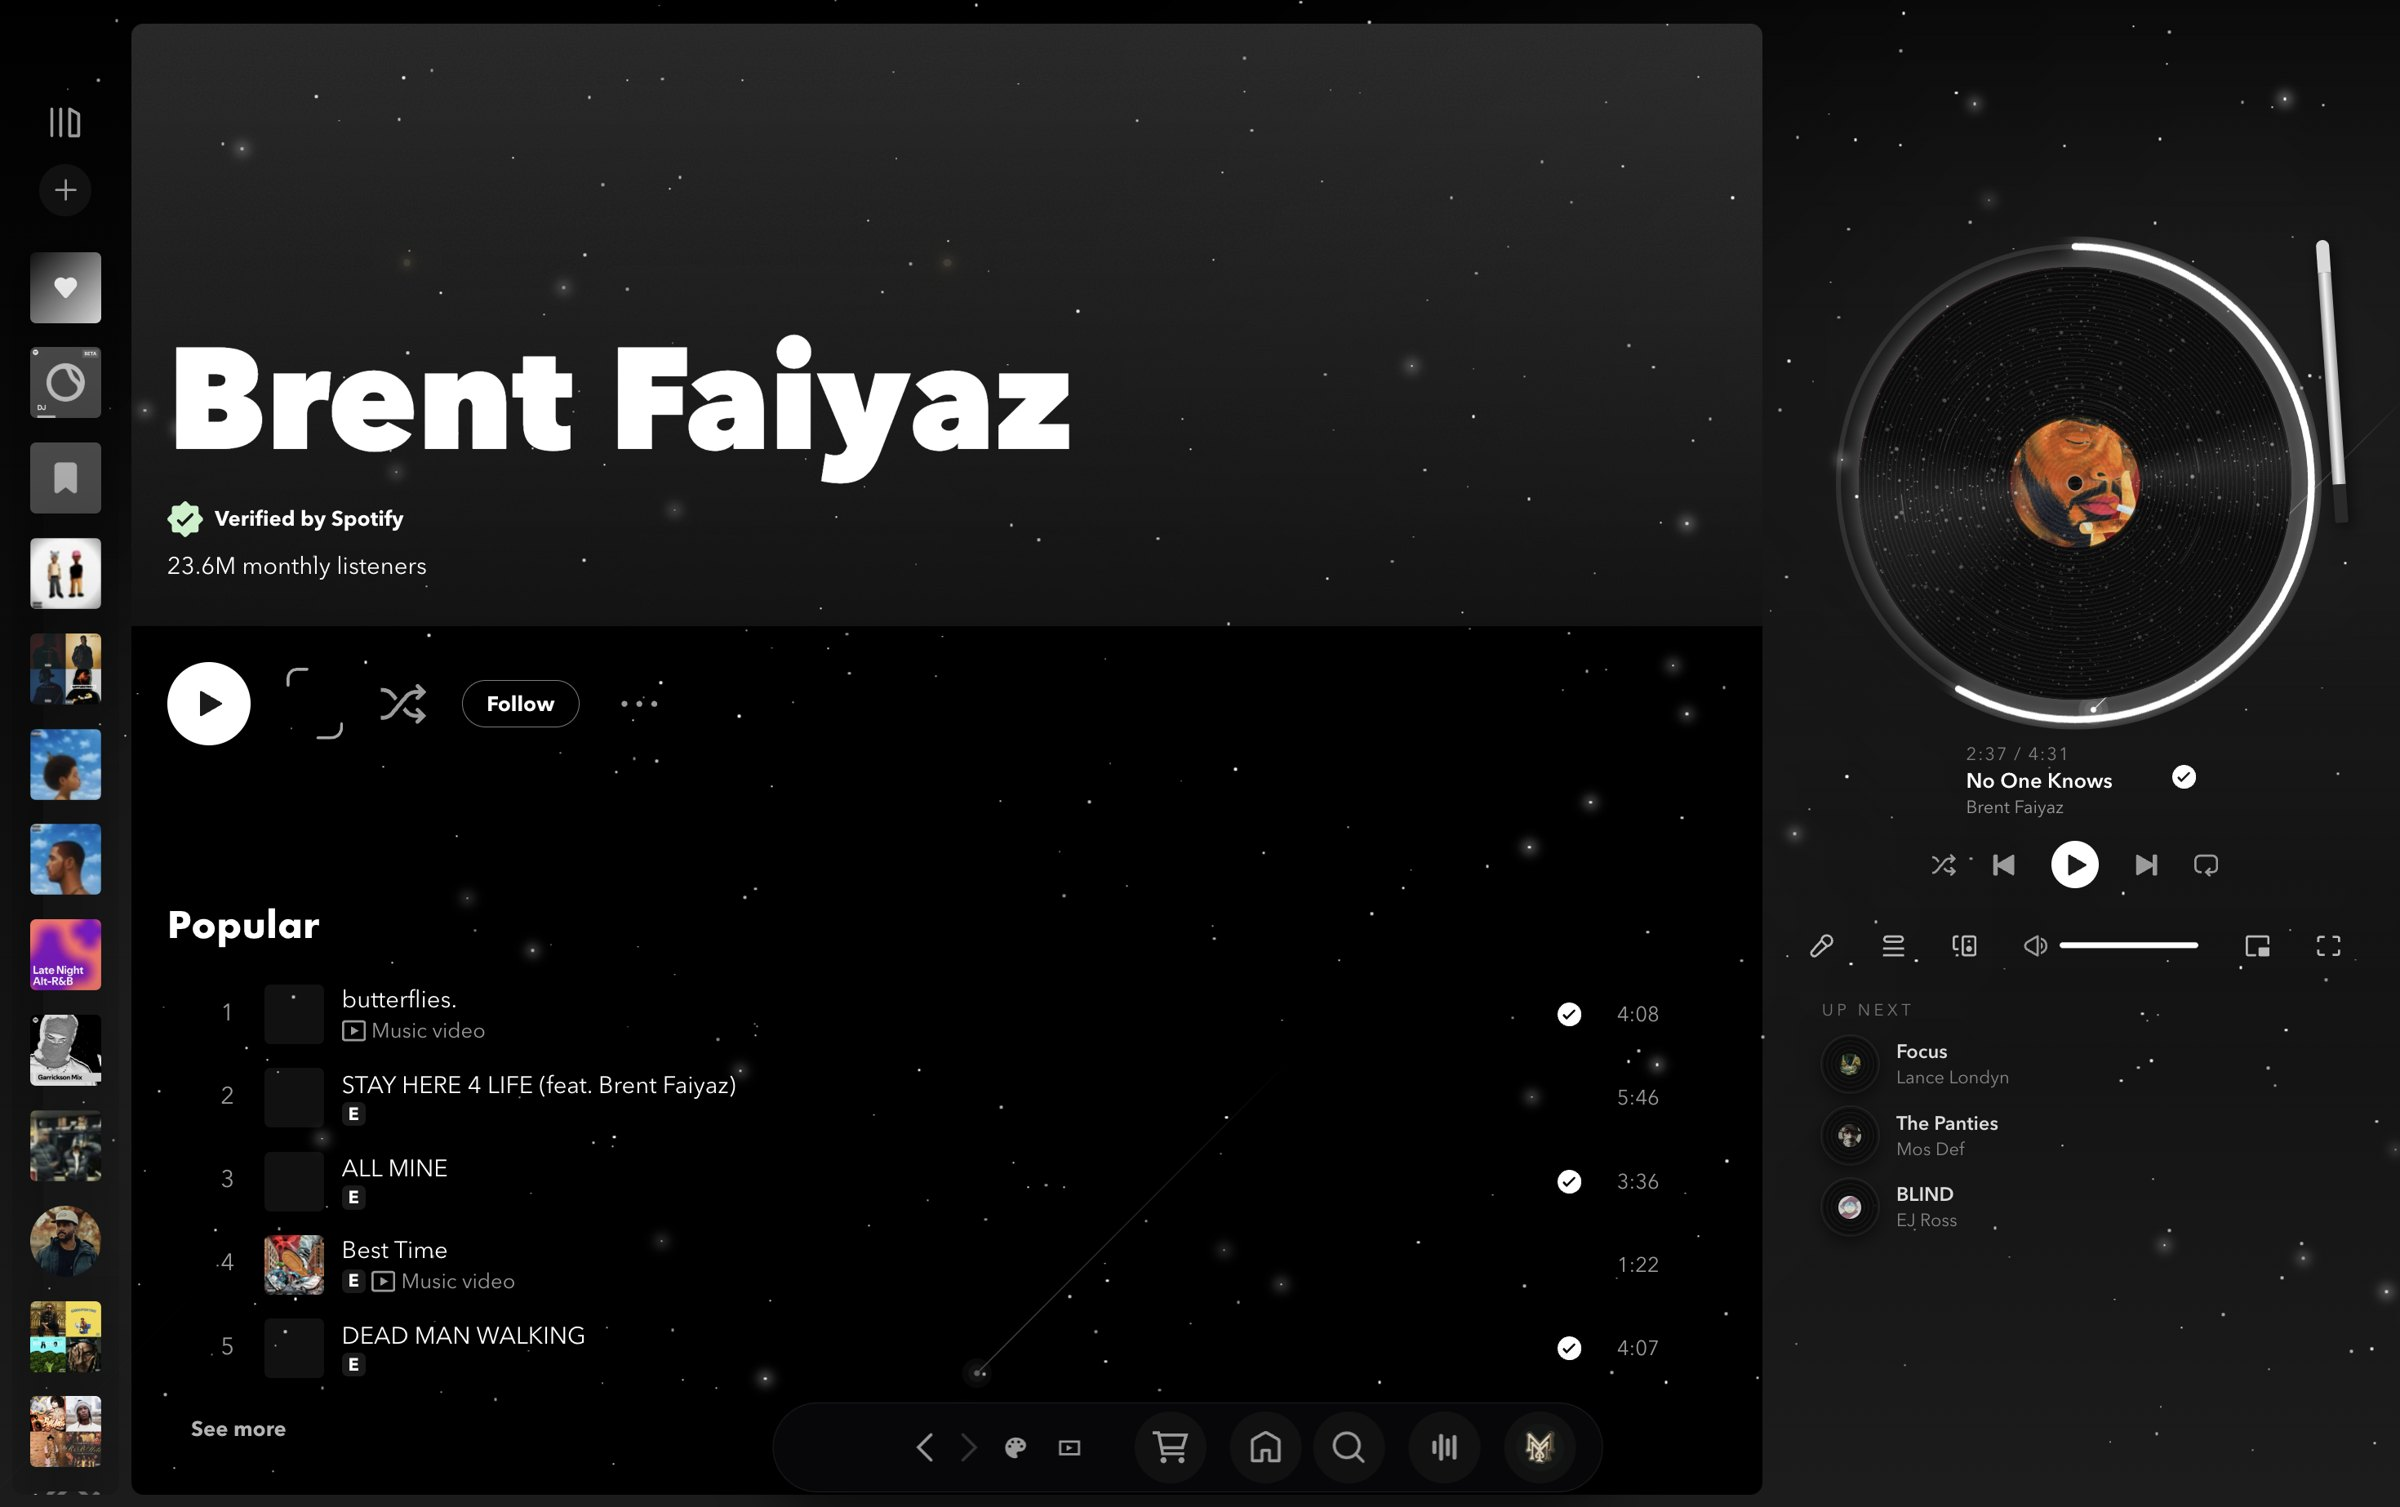
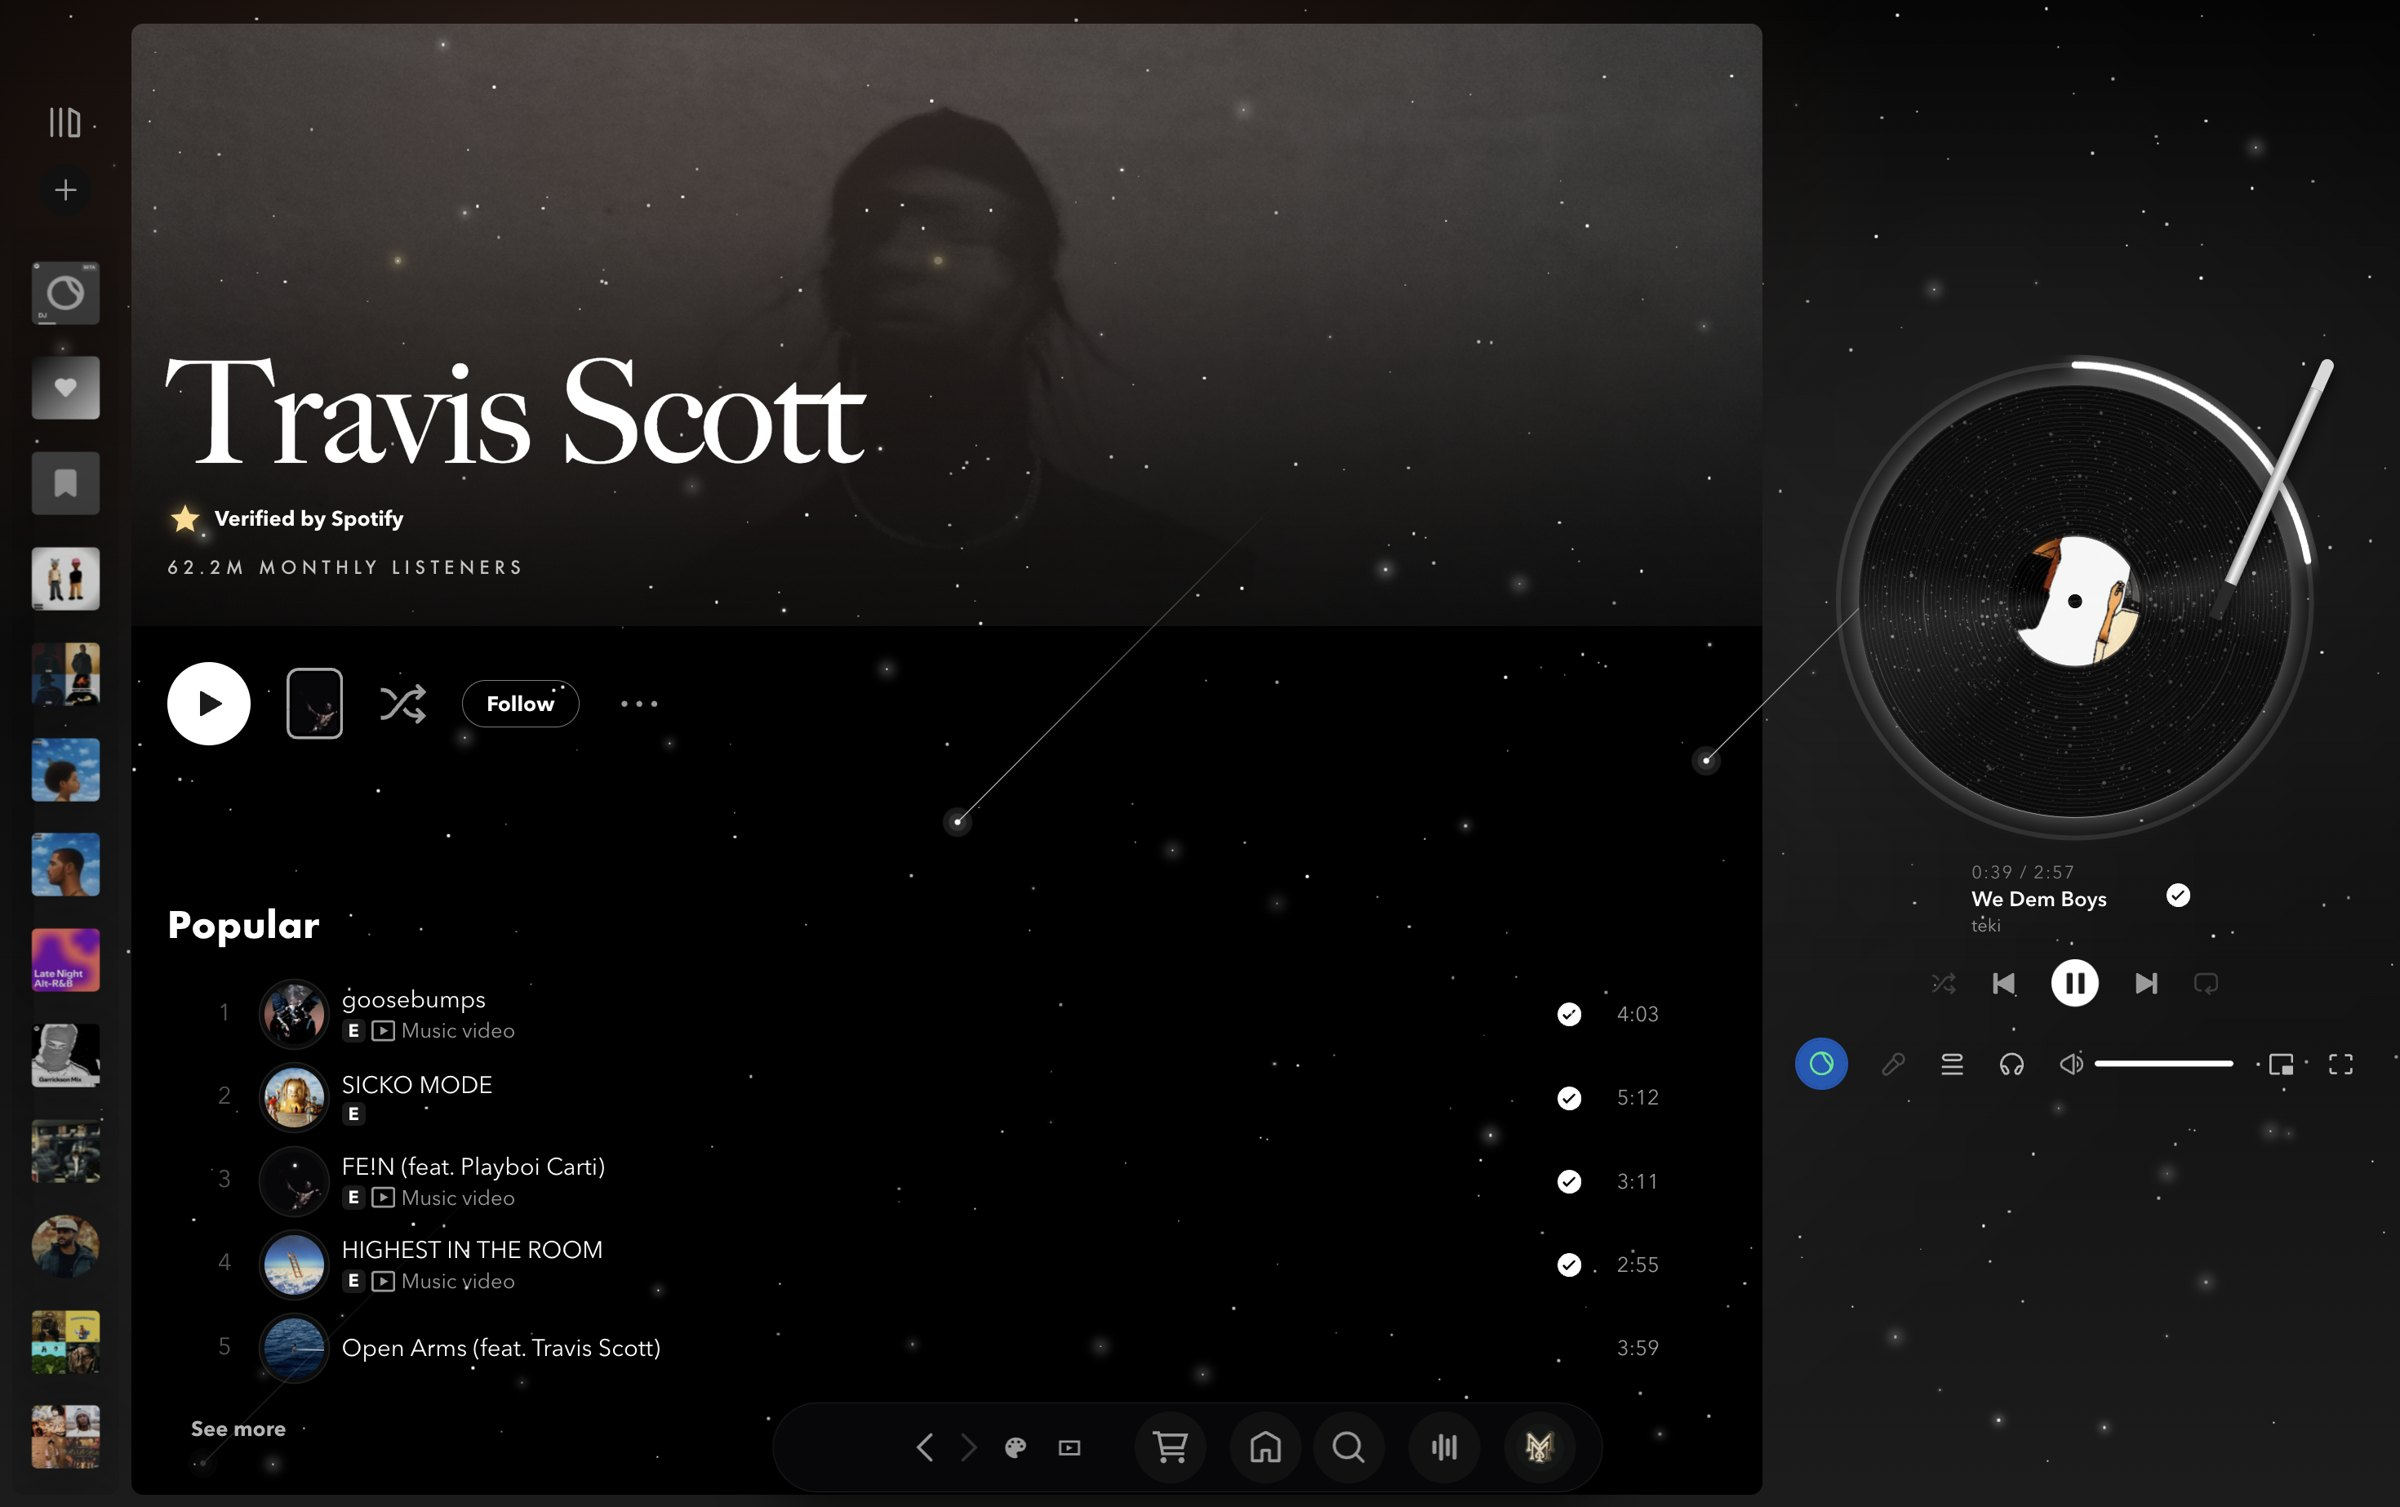
Refresh screenshots: artist, search, album, menu

diff --git a/README.md b/README.md
@@ -16,6 +16,13 @@ A night sky behind everything, a spinning vinyl player, a WebGL startup intro, a
 | --- | --- | --- |
 | ![Warp](screenshots/intro-warp.jpg) | ![Converging](screenshots/intro-converge.jpg) | ![Record forms](screenshots/intro-record.jpg) |
 
+**Pages**
+
+| | |
+| --- | --- |
+| ![Search results](screenshots/search-results.jpg) | ![Browse](screenshots/search-browse.jpg) |
+| ![Album page](screenshots/album.jpg) | ![Right-click menu](screenshots/menu.jpg) |
+
 ## What's in it
 
 **Player**
